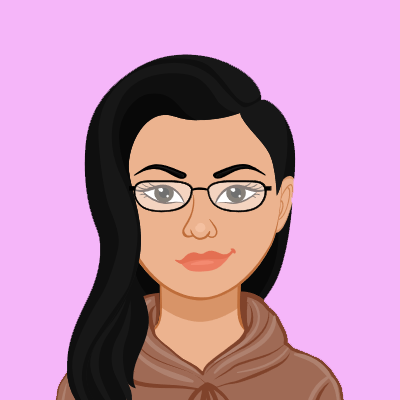
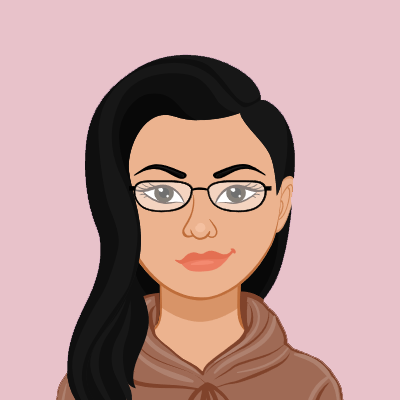
Add files via upload

diff --git a/index.html b/index.html
@@ -12,7 +12,7 @@
   
   <header class="header">
 	  <div class="logo">
-		<p class="logo">ad</p>
+		<a href="/"><p class="logo">ad</p></a>
 	  </div>
 	  
 	  <nav>
@@ -46,7 +46,7 @@
 		<div class="hero__col-left">
 			<h1>Hello, I'm <span class="bold">Anjileen Daji</span></h1>
 			<p>Web and UX Designer</p>
-			<a href="https://anjileen.github.io/#contact"><button>Get in Touch</button></a>
+			<a href="#contact"><button class="herobtn">Get in Touch</button></a>
 		</div>
 			
 		<div class="hero__col-right">
@@ -59,7 +59,7 @@
 		<h2>About</h2>
 		<p class="first">Hi, my name's Anjileen and I have a passion for coding and design!
 		I am a qualified web designer with a Diploma in Web Development and Design from Open Polytechnic. 
-		As well as currently completing a Diploma in Web and UX Design at Yoobee College.</p>
+		As well as a Diploma in Web and UX Design from Yoobee College of Creative Innovation.</p>
 	
 	</section>
 	
@@ -73,7 +73,7 @@
 	<p>This is a prototype for a restaurant ordering system. It was designed to allow customers at resturants to order directly from their phone, rather than having to be served by a waiter. Coded with HTML/SCSS/JavaScript.</p>
 	<div class="project-buttons">
 	<a target="_blank" href="https://anjileen.github.io/ux-summative"><button>Visit Site</button></a>
-	<a target="_blank" href="https://github.com/anjileen/anjileen.github.io/tree/main/ux-summative"><button>View Code</button></a>
+	<a target="_blank" href="https://github.com/anjileen/ux-summative"><button>View Code</button></a>
 	</div>
 	</div>
 	
@@ -83,17 +83,27 @@
 	<p>The scenario for the project was to create an accommodation finder that allows those looking for short stays in NZ to find a room to stay. It has search filters to help users find the best match for them based on their preferences. Coded with HTML/CSS/JavaScript/JQuery.</p>
 	<div class="project-buttons">
 	<a target="_blank" href="https://anjileen.github.io/fc-summative"><button>Visit Site</button></a>
-	<a target="_blank" href="https://github.com/anjileen/anjileen.github.io/tree/main/fc-summative"><button>View Code</button></a>
+	<a target="_blank" href="https://github.com/anjileen/fc-summative/tree/main/fc-summative"><button>View Code</button></a>
 	</div>
 	</div>
 	
 	<div>
 	<img src="mockup-ad.png">
 	<p>Niche Market App</p>
-	<p>This was a group project between myself and my team members Richard and Beste. It is aimed at board game enthusiasts in NZ, and allows users to login, browse, create, edit and delete their listings. Richard coded the About and Manuals pages. All other pages were coded by me. Coded with MERN Stack - MongoDB/Express/React/NodeJS</p>
+	<p>This was a group project between myself and my team member Richard. It is aimed at board game enthusiasts in NZ, and allows users to login, browse, create, edit and delete their listings. Richard coded the About and Manuals pages. All other pages were coded by me. Coded with MERN Stack - MongoDB/Express/React/NodeJS</p>
 	<div class="project-buttons">
-	<a target="_blank" href="https://boardhoard.herokuapp.com"><button>Visit Site</button></a>
-	<a target="_blank" href="https://github.com/anjileen/app"><button>View Code</button></a>
+	<a target="_blank" href="https://boardhoardapp.herokuapp.com"><button>Visit Site</button></a>
+	<a target="_blank" href="https://github.com/anjileen/app-summative"><button>View Code</button></a>
+	</div>
+	</div>
+	
+	<div>
+	<img src="mockup-cms.png">
+	<p>Wordpress Theme</p>
+	<p>This project is a custom Wordpress theme built with HTML/CSS/JavaScript/PHP. It was created for a mock client who owns an interior design business, to showcase their projects and attract new business. It has functionality that allows the client to easily update all content themselves through the CMS, without the need for knowledge of coding.</p>
+	<div class="project-buttons">
+	<a target="_blank" href="https://www.rddesign.epizy.com"><button>Visit Site</button></a>
+	<a target="_blank" href="https://github.com/anjileen/cms-summative"><button>View Code</button></a>
 	</div>
 	</div>
 	
@@ -104,7 +114,8 @@
 	<h2>Contact</h2>
 	<div class="center">
 	<h3>I'm available for freelance work!</h3>
-	<a href="mailto:anjileen@hotmail.com"><button class="contact">Drop Me an Email</button></a>
+	<p><a href="mailto:anjileen@hotmail.com">Drop me an email</a></p><br>
+	<div class="github"><a target="_blank" href="https://www.github.com/anjileen"><img src="github-logo.png" width="70px"></a></div>
 	</div>
 	</section>
 	

diff --git a/style.css b/style.css
@@ -4,8 +4,8 @@
 
 /* Variables */
 :root {
-	--primary: #521b80;
-	--secondary: #f5b6f9;
+	--primary: #936681;
+	--secondary: #e8c2ca;
 }
 
 /* CSS Reset */
@@ -29,6 +29,7 @@ body {
 }
 
 a {
+	color: var(--primary);
 	text-decoration: none;
 	outline: 0;
 }
@@ -51,7 +52,7 @@ h2 {
 h2::after {
 	content: '';
 	position: absolute;
-	background: #642599;
+	background: var(--primary);
 	height: 4px;
 	width: 130px;
 	top: 100%;
@@ -78,8 +79,8 @@ p {
 .header {
 	width: 100%;
 	background: var(--primary);
-	background: -webkit-linear-gradient(to right, #521b80, #742eaf);
-	background: linear-gradient(to right, #521b80, #742eaf); 
+	background: -webkit-linear-gradient(to right, #936681, #836184);
+	background: linear-gradient(to right, #936681, #836184);
 	display: flex;
 	padding: 20px 10%;
 	justify-content: space-between;
@@ -123,13 +124,12 @@ nav li a {
 	padding: 0 15px;
 }
 
-.desktopNav {
-
+nav li a:hover {
+	color: var(--secondary);
 }
 
 .mobileNav {
 	display: none;
-	
 }
 
 #mobMenu {
@@ -147,7 +147,7 @@ nav li a {
 	z-index: 1000;
 	top: 0;
 	right: 0;
-	background: #fff;
+	background: #f9f9f9;
 	overflow-x: hidden;
 	transition: 0.4s;
 	text-align: center;
@@ -166,6 +166,7 @@ nav li a {
 span.closeBtn {
 	position: absolute;
 	top: 0;
+	color: #6f6f6f;
 	padding-top: 8px;
 	right: 15px;
 	font-size: 22px;
@@ -182,8 +183,8 @@ span.closeBtn {
 	justify-content: space-between;
 	align-items: center;
 	background: var(--primary);
-	background: -webkit-linear-gradient(to right, #521b80, #742eaf);
-	background: linear-gradient(to right, #521b80, #742eaf); 
+	background: -webkit-linear-gradient(to right, #936681, #836184);
+	background: linear-gradient(to right, #936681, #836184);
 	color: #fff;
 }
 
@@ -207,15 +208,15 @@ span.closeBtn {
 
 .hero p {
 	font-weight: 500;
-	font-size: 1.1rem;
+	font-size: 1.2rem;
 	color: #fff;
 }
 
 /* Button */
 button {
-	background: var(--secondary);
+	background: transparent;
 	color: var(--primary);
-	border: 2px solid var(--secondary);
+	border: 2px solid var(--primary);
 	padding: 10px 20px;
 	margin-top: 15px;
 	font-size: 0.96rem;
@@ -225,19 +226,26 @@ button {
 }
 
 button:hover {
-	background: transparent;
-	color: var(--secondary);
-	border: 2px solid var(--secondary);
+	background: var(--primary);
+	color: #fff;
 }
 
-button.contact:hover {
+button.herobtn {
+	background: #fff;
 	color: var(--primary);
-	border-color: var(--primary);
+	border: 2px solid #fff;
+}
+
+button.herobtn:hover {
+	background: transparent;
+	color: #fff;
+	border: 2px solid #fff;
 }
 
 /* Main */
 main {
 	padding: 30px 10%;
+	background: #f9f9f9;
 }
 
 main h2 {
@@ -281,25 +289,35 @@ section {
 }
 
 .project-buttons button {
+	background: var(--primary);
+	border-color: #fff;
+	color: #fff;
+}
+
+.project-buttons button:hover {
 	background: transparent;
 	border-color: #ccc;
 	color: var(--primary);
 }
 
-.project-buttons button:hover {
-	background: var(--secondary);
-	border-color: var(--secondary);
+/* Contact */
+#contact p {
 	color: var(--primary);
+	font-weight: 700;
+	font-size: 1.3rem;
+	margin-top: 10px;
 }
 
+#contact p a:hover {
+	border-bottom: 2px solid var(--primary);
+}
 
 /* Footer */
 footer {
 	position: relative;
-	background: -webkit-linear-gradient(to right, #521b80, #742eaf);
-	background: linear-gradient(to right, #521b80, #742eaf); 
+	background: -webkit-linear-gradient(to right, #936681, #836184);
+	background: linear-gradient(to right, #936681, #836184);
 	padding: 15px 10%;
-	margin-top: 30px;
 }
 
 footer p {
@@ -319,8 +337,8 @@ footer p {
 	border: none;
 	outline: none;
 	background-color: transparent;
-	border: 2px solid #888;
-	color: #888;
+	border: 2px solid var(--primary);
+	color: var(--primary);
 	cursor: pointer;
 	padding: 5px 10px;
 }
@@ -328,8 +346,8 @@ footer p {
   
  .backToTop:hover {
 	background-color: transparent;
-	border: 2px solid #888;
-	color: #888;
+	border: 2px solid var(--primary);
+	color: var(--primary);
  }
 
 

diff --git a/scripts.js b/scripts.js
@@ -10,8 +10,8 @@ closeBtn.addEventListener("click", function() {
 })
 
 function openNav() {
-  document.getElementById("mobNavLinks").style.width = "70%";
-  document.getElementById("mobNavLinks").style.borderLeft = "6px solid #ccc";
+  document.getElementById("mobNavLinks").style.width = "50%";
+  document.getElementById("mobNavLinks").style.borderLeft = "6px solid #906582";
 }
 
 function closeNav() {
